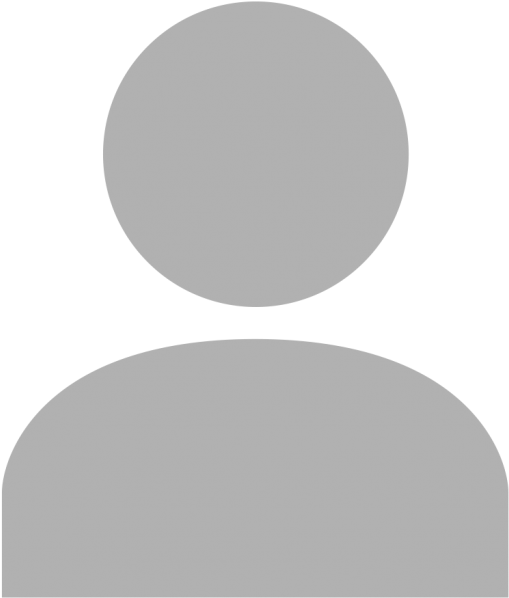
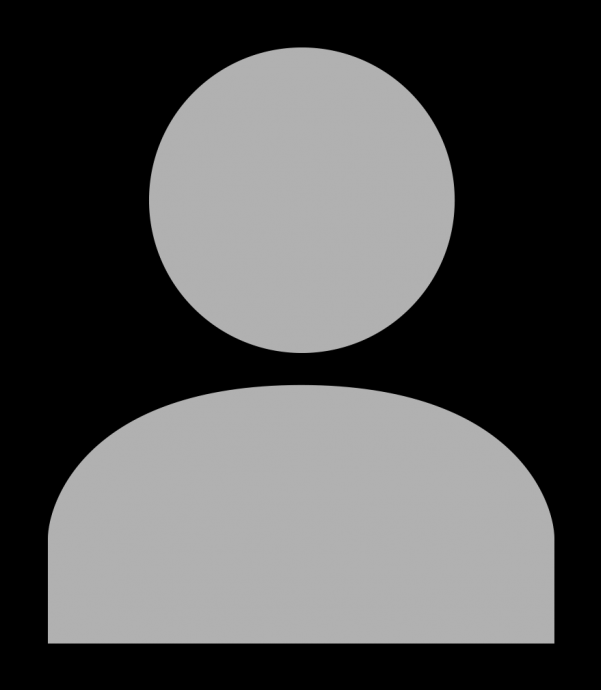
improve image caching

diff --git a/lib/widgets/app_drawer.dart b/lib/widgets/app_drawer.dart
@@ -23,19 +23,24 @@ class AppDrawer extends StatelessWidget {
           AppBar(
             title: Row(
               children: [
-                CircleAvatar(
-                  backgroundColor: Colors.black,
-                  radius: 22,
-                  child: CircleAvatar(
-                    backgroundColor: Colors.black,
-                    backgroundImage: url != null ? CachedNetworkImageProvider(url) : null,
-                    radius: 20,
-                    child: url == null ? Padding(
-                      padding: const EdgeInsets.all(6.0),
-                      child: ClipOval(
-                        child: Image.asset('assets/images/profile_pic.png'),
+                Container(
+                  decoration: BoxDecoration(
+                    color: Colors.black,
+                    shape: BoxShape.circle,
+                  ),
+                  child: ClipOval(
+                    child: url == null ? 
+                      Padding(
+                        padding: const EdgeInsets.all(8.0),
+                        child: Image.asset('assets/images/profile_pic.png',height: 40,width: 40),
+                      )
+                      : FadeInImage(
+                        height: 40,
+                        width: 40,
+                        placeholder: AssetImage('assets/images/profile_pic.png'),
+                        image: CachedNetworkImageProvider(url),
+                        fit: BoxFit.cover,
                       ),
-                    ) : null,
                   ),
                 ),
 

diff --git a/lib/widgets/product_item.dart b/lib/widgets/product_item.dart
@@ -32,7 +32,7 @@ class ProductItem extends StatelessWidget {
           child: Hero(
             tag: product.id,
             child: FadeInImage(
-              placeholder: AssetImage('assets/images/product-placeholder.png'),
+              placeholder: AssetImage('assets/images/hyper_store.png'),
               image: CachedNetworkImageProvider(product.imageUrl0),
               fit: product.imageUrl0 == product.imageUrl1 ? BoxFit.contain : BoxFit.cover,
             ),

diff --git a/lib/widgets/pickers/user_image_picker.dart b/lib/widgets/pickers/user_image_picker.dart
@@ -40,7 +40,7 @@ class _UserImagePickerState extends State<UserImagePicker> {
             child: _pickedImage == null ? Padding(
               padding: const EdgeInsets.all(6.0),
               child: ClipOval(
-                child: Image.asset('assets/images/profile_pic.png'),
+                child: Image.asset('assets/images/profile_pic1.png'),
               ),
             ) : null,
           ),
